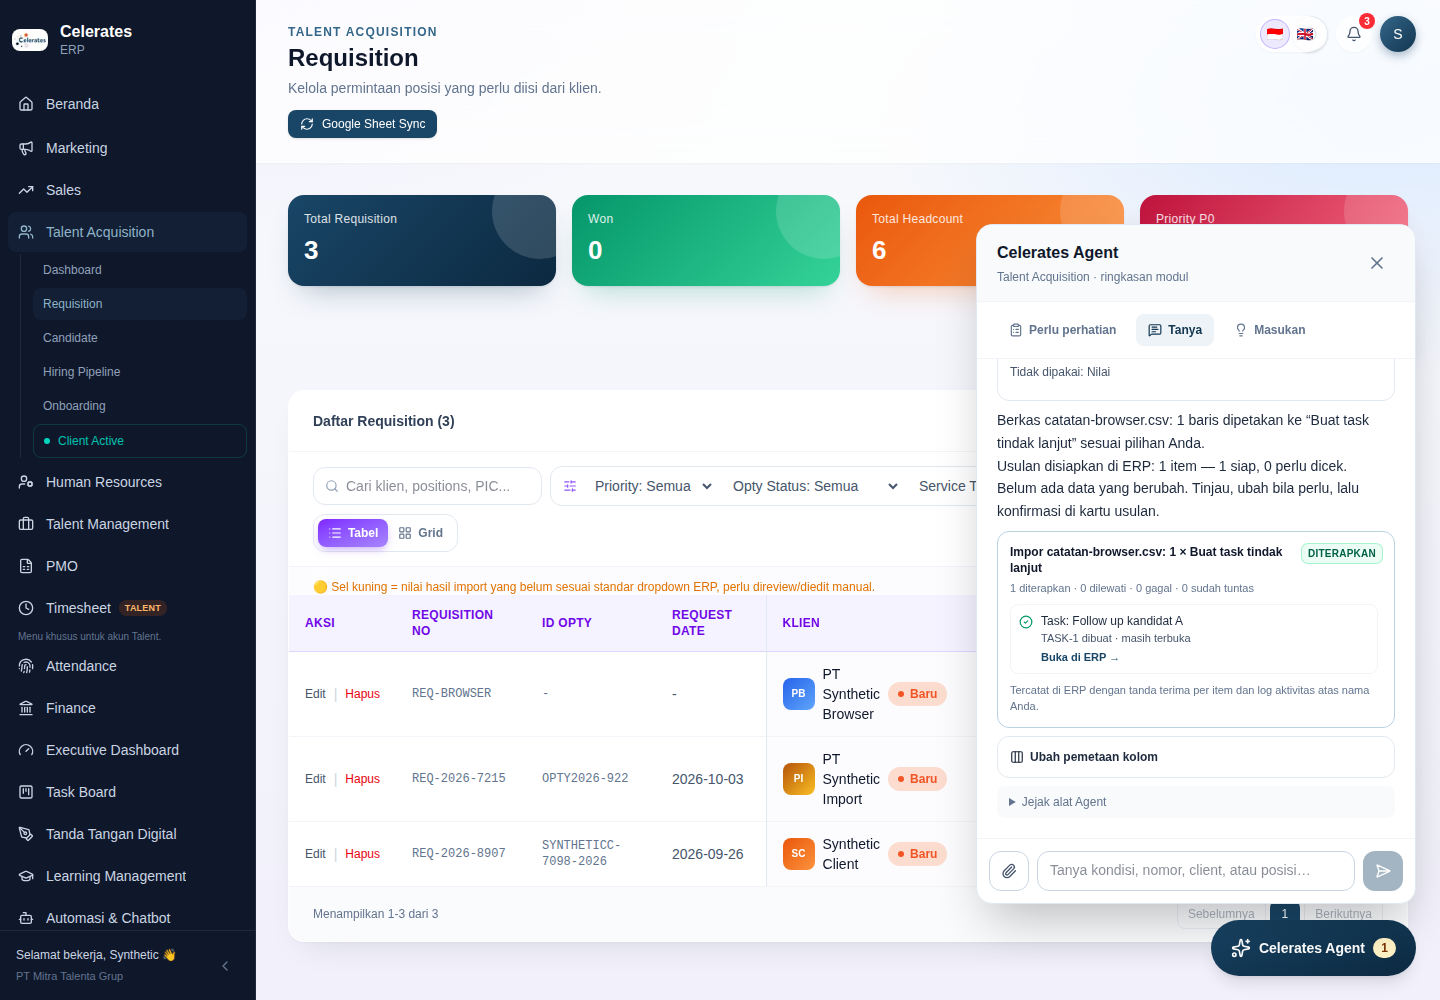
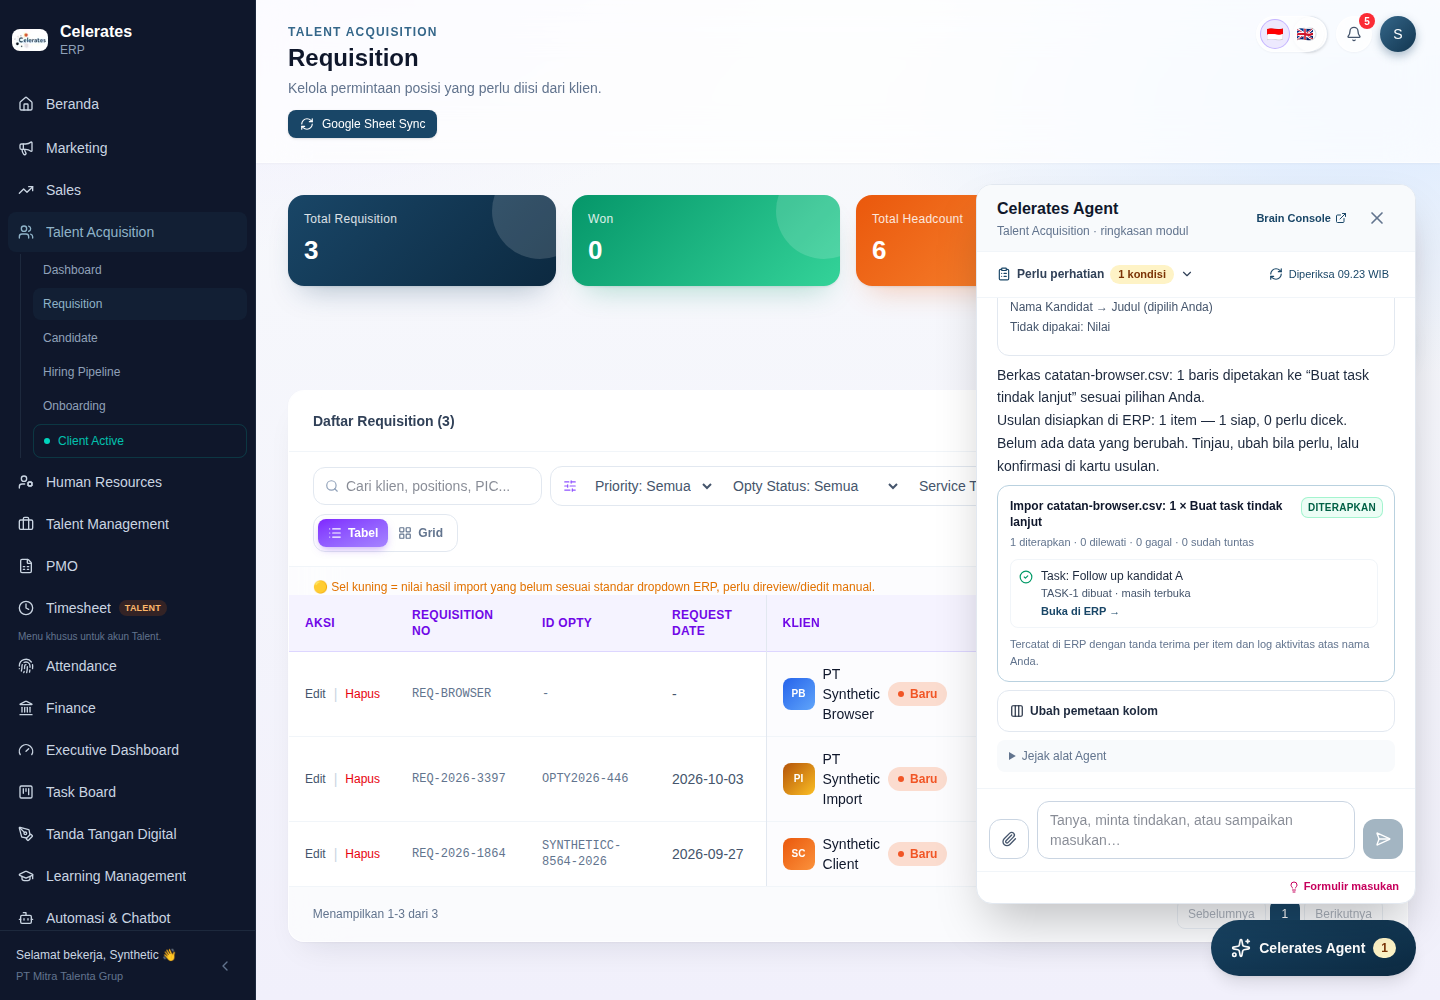
One Agent surface: Ringkasan + one composer, no tabs (ADR-017)
The panel is one conversation with one composer (text, voice, file, send).
Perlu perhatian is the Ringkasan above it: same ERP rules, counts, links,
Tanyakan / Tindak lanjuti, trends and Tindak lanjut berjalan; open until the
conversation starts, then folded; independent of Intelligence. The contextual
Feature Request form stays as a fallback ("Formulir masukan"). Full screen on
phones. Browser journeys updated; evidence screenshots refreshed.

Claude-Session: https://claude.ai/code/session_018uqVbsnJ9vwHss2qzHRD6U

diff --git a/apps/erp/src/components/agent/agent-panel.tsx b/apps/erp/src/components/agent/agent-panel.tsx
@@ -1,16 +1,18 @@
 "use client";
-// Celerates Agent shell. Evolves `Bantuan Operasional` without regressing it:
-//  • Perlu perhatian — the same deterministic ERP rules, counts, wording and links, plus `Tanyakan`,
-//    `Tindak lanjuti` (signal → ERP-held proposal, ADR-010) and `Tindak lanjut berjalan` (live outcomes).
-//  • Tanya — evidence-backed runs through the Intelligence Layer (AG-UI via the ERP BFF, ADR-008/013), including
-//    dropped CSV/XLSX files that become proposals the user confirms in ERP.
-//  • Masukan — the same contextual Feature Request form.
+// Celerates Agent: one conversational surface (ADR-017). One thread and one composer — text, voice, file, send — and
+// the Agent routes each message to the capability it needs: ask/search/reason, document understanding, controlled
+// ERP actions (ERP-held proposals, ADR-010) and feedback. Nothing from `Bantuan Operasional` regresses:
+//  • Perlu perhatian is the proactive Ringkasan at the top: the same deterministic ERP rules, counts, wording and
+//    links, with `Tanyakan`, `Tindak lanjuti`, trends and `Tindak lanjut berjalan`. It folds away once a
+//    conversation starts and works without Intelligence.
+//  • Masukan is understood from free text (reviewed drafts); the same contextual Feature Request form stays as a
+//    fallback, always reachable, and is the path when the Agent is not configured.
 import { useCallback, useEffect, useRef, useState } from "react";
 import dynamic from "next/dynamic";
 import { usePathname } from "next/navigation";
 import Link from "next/link";
 import { useSession } from "next-auth/react";
-import { AlertCircle, CheckCircle2, ClipboardList, Lightbulb, MessageSquareText, RefreshCw, Sparkles, X } from "lucide-react";
+import { AlertCircle, CheckCircle2, ChevronDown, ChevronUp, ClipboardList, ExternalLink, Lightbulb, RefreshCw, Sparkles, X } from "lucide-react";
 import { operationalContext, type OperationalContextResponse, type OperationalGroup } from "@/lib/operations/policy";
 import { streamRun, type RunRequest } from "@/lib/agent/ag-ui-client";
 import { applyEvent, newRun, type AgentRun } from "@/lib/agent/run-state";
@@ -29,7 +31,6 @@ const AgentThread = dynamic(() => import("./agent-thread"), {
   ),
 });
 
-type Tab = "attention" | "ask" | "feedback";
 type AgentContext = {
   enabled: boolean;
   context: { path: string; module: string; label: string };
@@ -48,7 +49,9 @@ export function AgentPanel() {
   const pathname = usePathname();
   const { status } = useSession();
   const [open, setOpen] = useState(false);
-  const [tab, setTab] = useState<Tab>("attention");
+  // Ringkasan (Perlu perhatian) is open until the conversation starts; the user can fold or unfold it any time.
+  const [summaryOpen, setSummaryOpen] = useState(true);
+  const [form, setForm] = useState(false);
   const [refresh, setRefresh] = useState(0);
   const [result, setResult] = useState<{ path: string; data?: OperationalContextResponse & { trends?: Record<string, SignalTrend> }; error?: string }>();
   const [loading, setLoading] = useState(false);
@@ -69,7 +72,7 @@ export function AgentPanel() {
 
   useEffect(() => {
     setOpen(false);
-    setTab((t) => (t === "feedback" ? "attention" : t));
+    setForm(false);
   }, [pathname]);
   useEffect(() => {
     if (status !== "authenticated") {
@@ -133,7 +136,8 @@ export function AgentPanel() {
     (skill: RunRequest["skill"], args: Record<string, unknown>, text: string, modality: "text" | "voice" = "text") => {
       if (running) return;
       const runId = uuid();
-      setTab("ask");
+      setForm(false);
+      setSummaryOpen(false);
       setRuns((all) => [...all, newRun(runId, text, skill)]);
       const controller = new AbortController();
       inflight.current = controller;
@@ -160,12 +164,80 @@ export function AgentPanel() {
     return null;
   };
   const suggestions: Suggestion[] = [];
+  if (attention.length) suggestions.push({ label: "Apa yang perlu aku perhatikan hari ini?", run: () => startRun("ask", { query: "Apa yang perlu aku perhatikan hari ini?" }, "Apa yang perlu aku perhatikan hari ini?") });
   if (agentContext?.entity) {
     const e = agentContext.entity;
     suggestions.push({ label: `Jelaskan ${e.type_label} ${e.label}`, run: () => startRun("explain_entity", {}, `Jelaskan ${e.type_label} ${e.label}`) });
   }
   for (const group of attention.slice(0, 2)) suggestions.push({ label: `Kenapa perlu perhatian: ${group.title}?`, run: () => ask(group) });
   const agentReady = agentContext?.enabled === true;
+  const conversing = runs.length > 0;
+  const checkedAt = data ? `${new Date(data.asOf).toLocaleTimeString("id-ID", { timeZone: "Asia/Jakarta", hour: "2-digit", minute: "2-digit" })} WIB` : null;
+
+  // Ringkasan: the proactive part of the Agent. ERP-only data, so it renders at once and without Intelligence.
+  const summary = (
+    <section aria-labelledby="agent-summary-title" data-agent-summary={summaryOpen ? "open" : "folded"} className={summaryOpen ? `min-h-0 overflow-y-auto overscroll-contain border-b border-slate-100 px-5 py-4 ${conversing ? "max-h-[45%] shrink-0" : "flex-1"}` : "shrink-0 border-b border-slate-100 px-5 py-2"}>
+      <div className="flex items-center justify-between gap-2">
+        <button type="button" onClick={() => setSummaryOpen(!summaryOpen)} aria-expanded={summaryOpen} className="inline-flex min-w-0 items-center gap-1.5 text-left text-xs font-semibold text-slate-700">
+          <ClipboardList className="h-3.5 w-3.5 shrink-0 text-brand-600" />
+          <span id="agent-summary-title">Perlu perhatian</span>
+          {data && <span className={`rounded-full px-2 py-0.5 text-[11px] ${attention.length ? "bg-amber-100 text-amber-900" : "bg-emerald-50 text-emerald-800"}`}>{attention.length ? `${attention.length} kondisi` : "aman"}</span>}
+          {summaryOpen ? <ChevronUp className="h-3.5 w-3.5 shrink-0" /> : <ChevronDown className="h-3.5 w-3.5 shrink-0" />}
+        </button>
+        <button aria-label="Muat ulang ringkasan" disabled={loading} onClick={() => setRefresh((n) => n + 1)} className="inline-flex items-center gap-1.5 rounded-lg p-1.5 text-[11px] text-brand-600 disabled:opacity-50">
+          <RefreshCw className={`h-3.5 w-3.5 ${loading ? "animate-spin" : ""}`} />
+          {checkedAt ? `Diperiksa ${checkedAt}` : "Kondisi dari ERP"}
+        </button>
+      </div>
+      {summaryOpen && (
+        <div className="mt-3 space-y-4">
+          {context.module === "sales" && (
+            <Link href="/intelligence" onClick={() => setOpen(false)} className="block rounded-lg border border-brand-100 bg-brand-50 px-3 py-2 text-xs font-semibold text-brand-700">
+              Review paket & akses Intelligence →
+            </Link>
+          )}
+          {loading && !data && (
+            <p role="status" className="rounded-xl bg-slate-50 p-4 text-sm text-slate-600">
+              Memeriksa kondisi ERP…
+            </p>
+          )}
+          {current?.error && (
+            <div role="alert" className="flex gap-2 rounded-xl bg-amber-50 p-4 text-sm text-amber-900">
+              <AlertCircle className="h-5 w-5 shrink-0" />
+              {current.error}
+            </div>
+          )}
+          {data && (
+            <>
+              <p className="text-xs leading-relaxed text-slate-500">{data.coverage}</p>
+              {attention.map((group) => (
+                <AttentionGroup key={group.key} group={group} trend={data.trends?.[group.key]} onAsk={agentReady && !running ? ask : undefined} onFollowUp={agentReady && !running ? followUp : undefined} />
+              ))}
+              {!attention.length && data.groups.length > 0 && (
+                <div className="rounded-xl bg-emerald-50 p-4 text-sm text-emerald-900">
+                  <CheckCircle2 className="mb-2 h-5 w-5" />
+                  Tidak ada record yang memenuhi kondisi perhatian yang diperiksa.
+                </div>
+              )}
+              {clear.length > 0 && (
+                <details className="rounded-xl border border-slate-200 p-3 text-xs text-slate-500">
+                  <summary className="cursor-pointer">{clear.length} kondisi lain sudah diperiksa</summary>
+                  <ul className="mt-3 space-y-2">
+                    {clear.map((g) => (
+                      <li key={g.key}>
+                        {g.title}: 0 {g.unit}
+                      </li>
+                    ))}
+                  </ul>
+                </details>
+              )}
+            </>
+          )}
+          {agentReady && <FollowUps refresh={refresh + runs.filter((r) => r.status !== "running").length} />}
+        </div>
+      )}
+    </section>
+  );
 
   if (status !== "authenticated") return null;
   return (
@@ -178,7 +250,7 @@ export function AgentPanel() {
         }}
         aria-expanded={open}
         aria-controls="celerates-agent"
-        className="fixed bottom-6 right-6 z-40 inline-flex h-14 items-center gap-2 rounded-full bg-gradient-to-br from-brand-600 to-brand-800 px-5 text-sm font-semibold text-white shadow-lg hover:from-brand-500 focus-visible:outline-2 focus-visible:outline-offset-4 focus-visible:outline-brand-600"
+        className={`fixed bottom-6 right-6 z-40 h-14 items-center gap-2 rounded-full bg-gradient-to-br from-brand-600 to-brand-800 px-5 text-sm font-semibold text-white shadow-lg hover:from-brand-500 focus-visible:outline-2 focus-visible:outline-offset-4 focus-visible:outline-brand-600 ${open ? "hidden sm:inline-flex" : "inline-flex"}`}
       >
         <Sparkles className="h-5 w-5" />
         <span>Celerates Agent</span>
@@ -193,122 +265,66 @@ export function AgentPanel() {
           id="celerates-agent"
           role="dialog"
           aria-labelledby="celerates-agent-title"
-          className="fixed bottom-24 right-3 z-40 flex h-[min(680px,calc(100dvh-7rem))] w-[calc(100vw-1.5rem)] flex-col overflow-hidden rounded-2xl border border-slate-200 bg-white shadow-2xl sm:right-6 sm:w-[440px]"
+          className="fixed inset-0 z-40 flex h-[100dvh] w-full flex-col overflow-hidden bg-white sm:inset-auto sm:bottom-24 sm:right-6 sm:h-[min(720px,calc(100dvh-7rem))] sm:w-[440px] sm:rounded-2xl sm:border sm:border-slate-200 sm:shadow-2xl"
         >
-          <header className="flex items-center justify-between gap-3 border-b border-slate-100 bg-slate-50 px-5 py-4">
+          <header className="flex items-center justify-between gap-3 border-b border-slate-100 bg-slate-50 px-5 py-3">
             <div className="min-w-0">
               <h2 id="celerates-agent-title" className="text-base font-semibold text-slate-900">
                 Celerates Agent
               </h2>
-              <p className="mt-1 truncate text-xs text-slate-500" data-agent-context>
+              <p className="mt-0.5 truncate text-xs text-slate-500" data-agent-context>
                 {context.label} · {agentContext?.entity ? `${agentContext.entity.type_label} ${agentContext.entity.label}` : "ringkasan modul"}
               </p>
             </div>
-            <button
-              ref={close}
-              aria-label="Tutup Agent"
-              onClick={() => {
-                setOpen(false);
-                trigger.current?.focus();
-              }}
-              className="rounded-lg p-2 text-slate-500 hover:bg-slate-200"
-            >
-              <X className="h-5 w-5" />
-            </button>
+            <div className="flex shrink-0 items-center gap-1">
+              {agentContext?.console && (
+                <a href="/api/agent/console" target="_blank" rel="noopener" title="Brain Console: kualitas & pembelajaran Agent" className="inline-flex items-center gap-1 rounded-lg px-2 py-1.5 text-[11px] font-semibold text-brand-600 hover:bg-slate-200" data-agent-console-link>
+                  Brain Console <ExternalLink className="h-3 w-3" />
+                </a>
+              )}
+              <button
+                ref={close}
+                aria-label="Tutup Agent"
+                onClick={() => {
+                  setOpen(false);
+                  trigger.current?.focus();
+                }}
+                className="rounded-lg p-2 text-slate-500 hover:bg-slate-200"
+              >
+                <X className="h-5 w-5" />
+              </button>
+            </div>
           </header>
-          <nav className="flex gap-2 border-b border-slate-100 px-5 py-3" aria-label="Isi Agent">
-            <button aria-pressed={tab === "attention"} onClick={() => setTab("attention")} className={`inline-flex items-center gap-1.5 rounded-lg px-3 py-2 text-xs font-semibold ${tab === "attention" ? "bg-brand-50 text-brand-700" : "text-slate-500"}`}>
-              <ClipboardList className="h-3.5 w-3.5" />
-              Perlu perhatian
-            </button>
-            <button aria-pressed={tab === "ask"} onClick={() => setTab("ask")} className={`inline-flex items-center gap-1.5 rounded-lg px-3 py-2 text-xs font-semibold ${tab === "ask" ? "bg-brand-50 text-brand-700" : "text-slate-500"}`}>
-              <MessageSquareText className="h-3.5 w-3.5" />
-              Tanya
-            </button>
-            <button aria-pressed={tab === "feedback"} onClick={() => setTab("feedback")} className={`inline-flex items-center gap-1.5 rounded-lg px-3 py-2 text-xs font-semibold ${tab === "feedback" ? "bg-pink-50 text-pink-700" : "text-slate-500"}`}>
-              <Lightbulb className="h-3.5 w-3.5" />
-              Masukan
-            </button>
-          </nav>
-          {tab === "ask" ? (
-            <div className="min-h-0 flex-1">
-              <AgentThread runs={runs} running={running} enabled={agentReady} suggestions={suggestions} onSearch={(text, modality) => startRun("ask", attachment ? { query: text, dataset_id: attachment.id } : { query: text }, text, modality)}
-                voice={agentContext?.capabilities?.voice === true}
-                onFile={importFile}
-                attachment={attachment}
-                onDetach={() => setAttachment(null)} onAction={(a) => startRun(a.skill, a.args, a.label)} />
+          {form ? (
+            <div className="min-h-0 flex-1 overflow-y-auto overscroll-contain p-5" data-agent-feedback-form>
+              <button type="button" onClick={() => setForm(false)} className="mb-4 text-xs font-semibold text-brand-600 hover:underline">
+                ← Kembali ke Agent
+              </button>
+              <ContextualFeedback context={context} />
             </div>
           ) : (
-            <div className="min-h-0 flex-1 overflow-y-auto overscroll-contain p-5">
-              {context.module === "sales" && (
-                <Link href="/intelligence" onClick={() => setOpen(false)} className="mb-4 block rounded-lg border border-brand-100 bg-brand-50 px-3 py-2 text-xs font-semibold text-brand-700">
-                  Review paket & akses Intelligence →
-                </Link>
-              )}
-              {tab === "feedback" ? (
-                <ContextualFeedback context={context} />
-              ) : (
-                <div className="space-y-4">
-                  <div className="flex items-center justify-between text-xs text-slate-500">
-                    <span>
-                      {data
-                        ? `Diperiksa ${new Date(data.asOf).toLocaleTimeString("id-ID", { timeZone: "Asia/Jakarta", hour: "2-digit", minute: "2-digit" })} WIB`
-                        : "Kondisi dari ERP"}
-                    </span>
-                    <button aria-label="Muat ulang ringkasan" disabled={loading} onClick={() => setRefresh((n) => n + 1)} className="inline-flex items-center gap-1.5 rounded-lg p-2 text-brand-600 disabled:opacity-50">
-                      <RefreshCw className={`h-3.5 w-3.5 ${loading ? "animate-spin" : ""}`} />
-                      Muat ulang
-                    </button>
-                  </div>
-                  {loading && !data && (
-                    <p role="status" className="rounded-xl bg-slate-50 p-4 text-sm text-slate-600">
-                      Memeriksa kondisi ERP…
-                    </p>
-                  )}
-                  {current?.error && (
-                    <div role="alert" className="flex gap-2 rounded-xl bg-amber-50 p-4 text-sm text-amber-900">
-                      <AlertCircle className="h-5 w-5 shrink-0" />
-                      {current.error}
-                    </div>
-                  )}
-                  {data && (
-                    <>
-                      <p className="text-xs leading-relaxed text-slate-500">{data.coverage}</p>
-                      {attention.map((group) => (
-                        <AttentionGroup key={group.key} group={group} trend={data.trends?.[group.key]} onAsk={agentReady && !running ? ask : undefined} onFollowUp={agentReady && !running ? followUp : undefined} />
-                      ))}
-                      {!attention.length && data.groups.length > 0 && (
-                        <div className="rounded-xl bg-emerald-50 p-4 text-sm text-emerald-900">
-                          <CheckCircle2 className="mb-2 h-5 w-5" />
-                          Tidak ada record yang memenuhi kondisi perhatian yang diperiksa.
-                        </div>
-                      )}
-                      {clear.length > 0 && (
-                        <details className="rounded-xl border border-slate-200 p-3 text-xs text-slate-500">
-                          <summary className="cursor-pointer">{clear.length} kondisi lain sudah diperiksa</summary>
-                          <ul className="mt-3 space-y-2">
-                            {clear.map((g) => (
-                              <li key={g.key}>
-                                {g.title}: 0 {g.unit}
-                              </li>
-                            ))}
-                          </ul>
-                        </details>
-                      )}
-                    </>
-                  )}
-                  {agentContext?.console && (
-                    <a href="/api/agent/console" target="_blank" rel="noopener" className="block text-right text-xs font-semibold text-brand-600 hover:underline" data-agent-console-link>
-                      Brain Console: kualitas &amp; pembelajaran Agent →
-                    </a>
-                  )}
-                  {agentReady && <FollowUps refresh={refresh + runs.filter((r) => r.status !== "running").length} />}
-                  <button onClick={() => setTab("feedback")} className="w-full rounded-xl border border-pink-200 bg-pink-50 px-4 py-3 text-left text-sm font-medium text-pink-800">
-                    Ada kendala di halaman ini? Kirim masukan →
-                  </button>
-                </div>
-              )}
-            </div>
+            <>
+              {summary}
+              <div className={conversing || !summaryOpen ? "min-h-0 flex-1" : "shrink-0"}>
+                <AgentThread
+                  runs={runs}
+                  running={running}
+                  enabled={agentReady}
+                  suggestions={suggestions}
+                  onSearch={(text, modality) => startRun("ask", attachment ? { query: text, dataset_id: attachment.id } : { query: text }, text, modality)}
+                  voice={agentContext?.capabilities?.voice === true}
+                  onFile={importFile}
+                  attachment={attachment}
+                  onDetach={() => setAttachment(null)}
+                  onAction={(a) => startRun(a.skill, a.args, a.label)}
+                />
+              </div>
+              <p className="shrink-0 border-t border-slate-100 px-4 py-1.5 text-right text-[11px] text-slate-500">
+                <button type="button" onClick={() => setForm(true)} className="inline-flex items-center gap-1 font-semibold text-pink-700 hover:underline">
+                  <Lightbulb className="h-3 w-3" /> Formulir masukan
+                </button>
+              </p>
+            </>
           )}
         </section>
       )}
